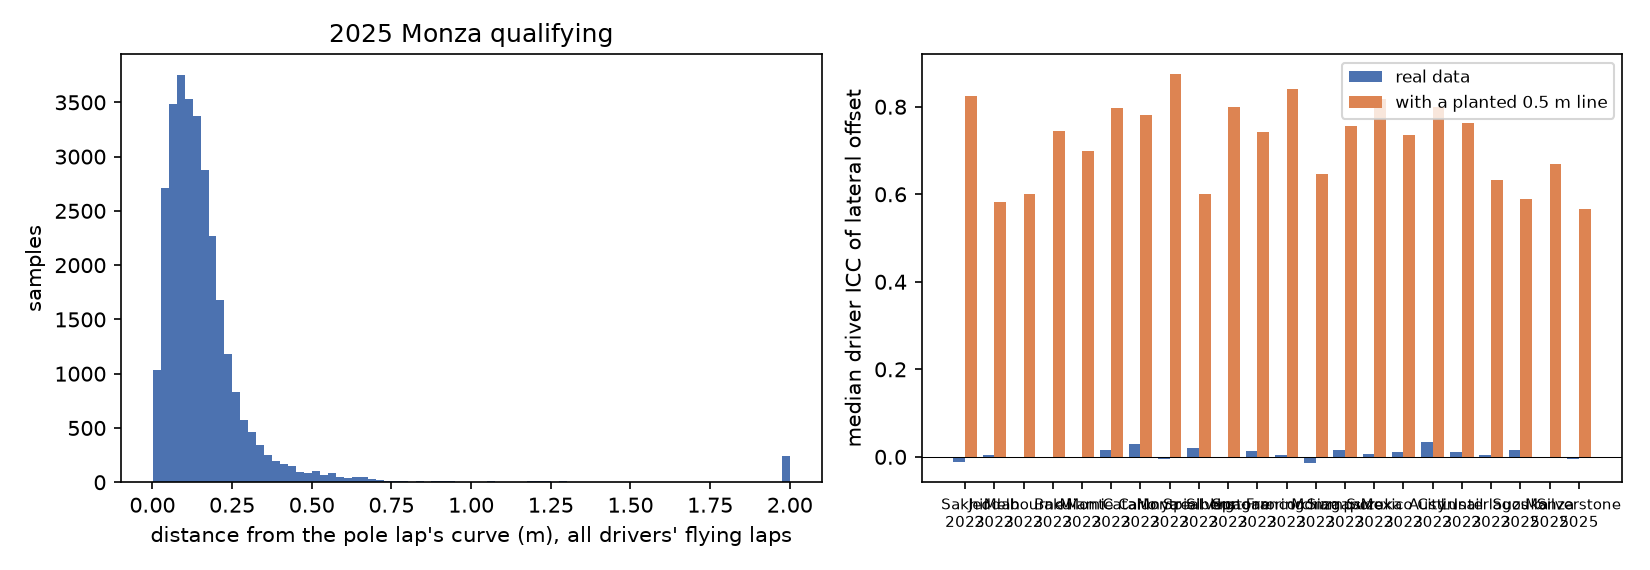
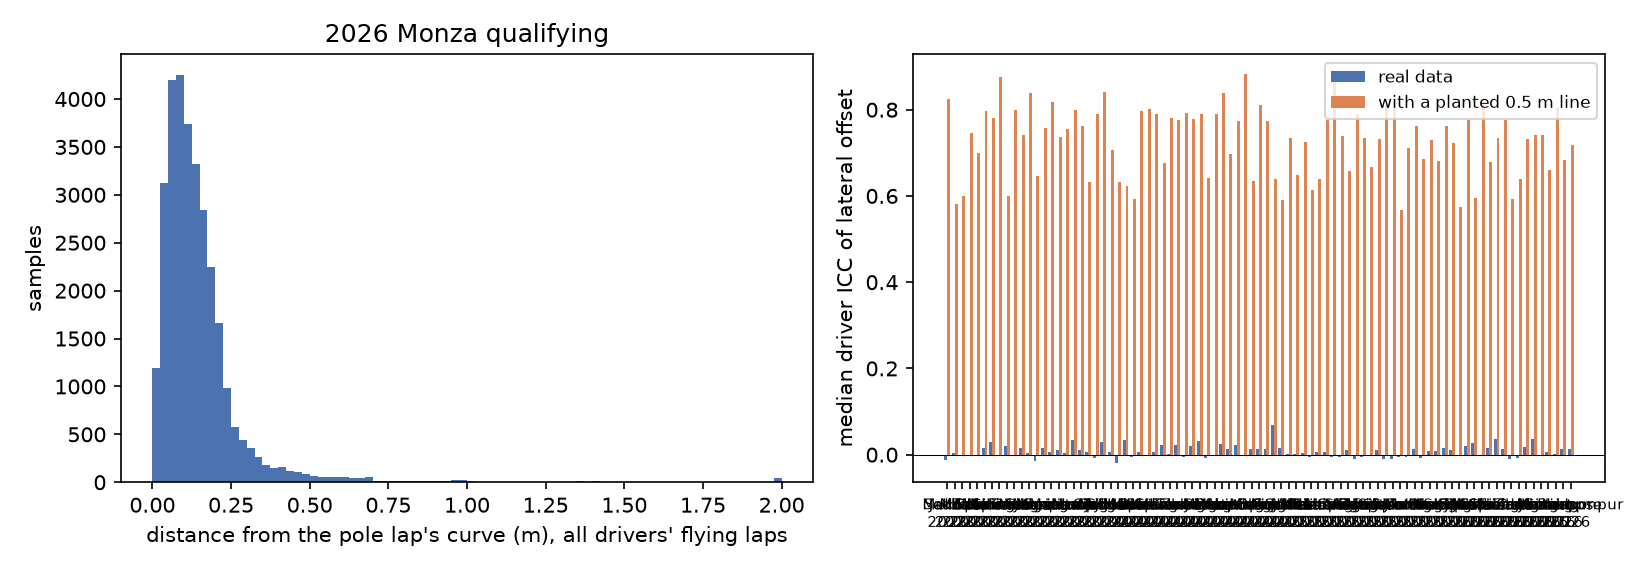
P0 complete; K4 specialist passes the revised gate on seed 1
- OpenF1: 111 qualifying-type sessions (2023: 28, 2024: 30, 2025: 30, 2026: 23 so
  far), 5,196 files, 0.54 GB, every SHA-256 verified, no incomplete sessions.
  jolpica: official qualifying results 2023-2026 (88 rounds).
- Snapping audit rerun on all 85 main qualifying sessions.
- Hockenheim specialist, 200M steps (MLP, Mac CPU): 100% completion over 20
  jittered starts, median lap 74.68 s vs the OCP's 71.28 s, a 4.8% gap (50M steps:
  12.9%). Passes the K4 paper gate (>= 95%, <= 8%) on this seed; two more seeds due.

diff --git a/scripts/fetch_jolpica.py b/scripts/fetch_jolpica.py
@@ -1,0 +1,55 @@
+"""Official qualifying results 2023-2026 from jolpica-f1 (the Ergast successor).
+
+    uv run python scripts/fetch_jolpica.py
+
+Writes data/raw/jolpica/qualifying_<year>.json (all pages merged) plus a SHA-256
+manifest. A handful of requests, spaced well under jolpica's limits.
+"""
+
+import hashlib
+import json
+import time
+from pathlib import Path
+
+import _bootstrap  # noqa: F401  (makes src/ importable)
+import httpx
+
+BASE = "https://api.jolpi.ca/ergast/f1"
+UA = "apexzero-research/0.1"
+
+
+def fetch_year(http: httpx.Client, year: int) -> list[dict]:
+    races, offset, limit = {}, 0, 100
+    while True:
+        resp = http.get(f"{BASE}/{year}/qualifying.json", params={"limit": limit, "offset": offset})
+        resp.raise_for_status()
+        data = resp.json()["MRData"]
+        for race in data["RaceTable"]["Races"]:
+            key = race["round"]
+            if key in races:
+                races[key]["QualifyingResults"].extend(race["QualifyingResults"])
+            else:
+                races[key] = race
+        offset += limit
+        time.sleep(1.0)
+        if offset >= int(data["total"]):
+            break
+    return [races[k] for k in sorted(races, key=int)]
+
+
+def main(out: Path = Path("data/raw/jolpica")) -> None:
+    out.mkdir(parents=True, exist_ok=True)
+    manifest = {}
+    with httpx.Client(headers={"User-Agent": UA}, timeout=60.0) as http:
+        for year in (2023, 2024, 2025, 2026):
+            races = fetch_year(http, year)
+            path = out / f"qualifying_{year}.json"
+            path.write_text(json.dumps(races, indent=1))
+            manifest[path.name] = hashlib.sha256(path.read_bytes()).hexdigest()
+            n = sum(len(r["QualifyingResults"]) for r in races)
+            print(f"{year}: {len(races)} rounds, {n} results", flush=True)
+    (out / "manifest.json").write_text(json.dumps(manifest, indent=1))
+
+
+if __name__ == "__main__":
+    main()

diff --git a/docs/findings/snapping-audit.md b/docs/findings/snapping-audit.md
@@ -24,12 +24,75 @@ shifted by known 1-3 m offsets, and a planted 0.5 m line for one driver.
 | 2023 Singapore | 88 | 9.8 cm | 29 cm | 17.2 m | 2.01 m | +0.017 | 4.2% | 7.0 cm | +0.76 | 99% | 47 cm | - |
 | 2023 Suzuka | 74 | 11.8 cm | 40 cm | 13.4 m | 2.00 m | +0.007 | 2.6% | 9.4 cm | +0.82 | 97% | 46 cm | - |
 | 2023 Mexico City | 81 | 10.3 cm | 29 cm | 16.4 m | 2.00 m | +0.012 | 3.5% | 7.1 cm | +0.74 | 100% | 45 cm | - |
+| 2023 Yas Marina Circuit | 84 | 11.3 cm | 36 cm | 18.8 m | 2.01 m | +0.004 | 3.8% | 7.3 cm | +0.76 | 98% | 46 cm | - |
 | 2023 Austin | 94 | 11.2 cm | 38 cm | 14.1 m | 2.01 m | +0.033 | 10.2% | 8.9 cm | +0.80 | 99% | 47 cm | - |
 | 2023 Lusail | 112 | 12.3 cm | 40 cm | 16.8 m | 1.99 m | +0.011 | 5.6% | 7.5 cm | +0.76 | 99% | 44 cm | - |
 | 2023 Interlagos | 92 | 11.2 cm | 35 cm | 27.1 m | 2.01 m | +0.005 | 3.6% | 7.8 cm | +0.63 | 96% | 45 cm | - |
+| 2023 Las Vegas | 104 | 11.0 cm | 32 cm | 14.3 m | 2.00 m | -0.008 | 5.7% | 8.7 cm | +0.79 | 100% | 45 cm | - |
+| 2024 Sakhir | 84 | 10.2 cm | 27 cm | 16.6 m | 2.01 m | +0.030 | 5.7% | 7.0 cm | +0.84 | 99% | 45 cm | - |
+| 2024 Jeddah | 94 | 11.8 cm | 30 cm | 16.1 m | 2.02 m | +0.005 | 4.1% | 7.5 cm | +0.71 | 99% | 46 cm | - |
+| 2024 Melbourne | 98 | 13.3 cm | 35 cm | 20.5 m | 2.01 m | -0.019 | 1.9% | 8.5 cm | +0.63 | 98% | 45 cm | - |
+| 2024 Suzuka | 73 | 13.3 cm | 36 cm | 13.4 m | 2.00 m | +0.035 | 1.7% | 10.2 cm | +0.62 | 98% | 45 cm | - |
+| 2024 Miami | 102 | 10.0 cm | 33 cm | 18.2 m | 2.00 m | -0.005 | 8.5% | 7.9 cm | +0.59 | 98% | 44 cm | - |
+| 2024 Imola | 86 | 11.0 cm | 27 cm | 8.4 m | 2.00 m | +0.006 | 3.1% | 7.3 cm | +0.80 | 97% | 46 cm | - |
+| 2024 Monte Carlo | 142 | 10.5 cm | 47 cm | 7.9 m | 2.01 m | -0.001 | 4.6% | 7.7 cm | +0.80 | 98% | 44 cm | - |
+| 2024 Montreal | 130 | 10.8 cm | 29 cm | 26.5 m | 2.01 m | +0.006 | 2.4% | 6.7 cm | +0.79 | 99% | 45 cm | - |
+| 2024 Catalunya | 83 | 12.3 cm | 34 cm | 17.2 m | 2.01 m | +0.021 | 1.1% | 7.9 cm | +0.68 | 99% | 46 cm | - |
+| 2024 Spielberg | 102 | 11.2 cm | 28 cm | 15.4 m | 2.01 m | +0.002 | 1.2% | 7.6 cm | +0.78 | 99% | 45 cm | - |
+| 2024 Silverstone | 79 | 13.3 cm | 45 cm | 30.7 m | 2.01 m | +0.022 | 1.7% | 9.1 cm | +0.78 | 97% | 47 cm | - |
+| 2024 Hungaroring | 100 | 11.2 cm | 37 cm | 15.1 m | 2.00 m | -0.005 | 1.2% | 6.5 cm | +0.79 | 100% | 46 cm | - |
+| 2024 Spa-Francorchamps | 127 | 10.9 cm | 34 cm | 30.4 m | 1.99 m | +0.020 | 6.5% | 7.8 cm | +0.78 | 99% | 45 cm | - |
+| 2024 Zandvoort | 92 | 11.9 cm | 44 cm | 14.8 m | 2.00 m | +0.033 | 7.2% | 9.2 cm | +0.79 | 98% | 46 cm | - |
+| 2024 Monza | 86 | 11.5 cm | 30 cm | 18.8 m | 2.00 m | -0.008 | 0.0% | 7.7 cm | +0.64 | 98% | 46 cm | - |
+| 2024 Baku | 99 | 9.6 cm | 29 cm | 14.0 m | 2.00 m | -0.001 | 3.4% | 7.2 cm | +0.79 | 99% | 47 cm | - |
+| 2024 Singapore | 85 | 10.1 cm | 30 cm | 16.3 m | 2.01 m | +0.025 | 4.2% | 6.9 cm | +0.84 | 99% | 46 cm | - |
+| 2024 Austin | 81 | 10.9 cm | 38 cm | 14.2 m | 2.00 m | +0.014 | 5.6% | 13.0 cm | +0.70 | 94% | 46 cm | - |
+| 2024 Mexico City | 88 | 9.4 cm | 29 cm | 16.5 m | 1.99 m | +0.022 | 6.0% | 8.3 cm | +0.77 | 99% | 46 cm | - |
+| 2024 Interlagos | 54 | 10.0 cm | 30 cm | 26.8 m | 1.99 m | -0.004 | 1.2% | 6.4 cm | +0.88 | 99% | 45 cm | - |
+| 2024 Las Vegas | 100 | 11.1 cm | 33 cm | 14.7 m | 2.01 m | +0.012 | 4.1% | 9.0 cm | +0.63 | 99% | 45 cm | - |
+| 2024 Lusail | 109 | 12.6 cm | 43 cm | 16.8 m | 2.01 m | +0.013 | 3.7% | 8.6 cm | +0.81 | 99% | 45 cm | - |
+| 2024 Yas Marina Circuit | 80 | 11.7 cm | 36 cm | 21.8 m | 2.00 m | +0.013 | 5.8% | 7.8 cm | +0.77 | 99% | 48 cm | - |
+| 2024 Shanghai | 87 | 12.0 cm | 36 cm | 17.6 m | 2.01 m | +0.068 | 12.1% | 9.2 cm | +0.64 | 97% | 46 cm | - |
 | 2025 Suzuka | 93 | 13.1 cm | 43 cm | 14.1 m | 1.99 m | +0.015 | 1.7% | 9.4 cm | +0.59 | 97% | 43 cm | - |
+| 2025 Sakhir | 81 | 10.5 cm | 30 cm | 13.7 m | 1.99 m | +0.003 | 4.7% | 7.6 cm | +0.73 | 97% | 46 cm | - |
+| 2025 Jeddah | 86 | 12.2 cm | 33 cm | 14.7 m | 1.99 m | +0.002 | 2.5% | 8.4 cm | +0.65 | 98% | 47 cm | - |
+| 2025 Miami | 92 | 11.9 cm | 46 cm | 16.8 m | 1.99 m | +0.004 | 0.9% | 8.8 cm | +0.72 | 98% | 46 cm | - |
+| 2025 Melbourne | 89 | 12.2 cm | 33 cm | 14.9 m | 2.01 m | -0.006 | 0.0% | 8.2 cm | +0.61 | 99% | 46 cm | - |
+| 2025 Yas Marina Circuit | 91 | 11.7 cm | 42 cm | 20.8 m | 2.00 m | +0.007 | 7.7% | 9.0 cm | +0.64 | 96% | 46 cm | - |
+| 2025 Lusail | 115 | 12.8 cm | 55 cm | 16.8 m | 2.00 m | +0.006 | 2.8% | 8.7 cm | +0.78 | 98% | 45 cm | - |
+| 2025 Las Vegas | 111 | 9.5 cm | 27 cm | 14.6 m | 2.00 m | -0.004 | 2.5% | 6.4 cm | +0.86 | 99% | 47 cm | - |
+| 2025 Interlagos | 95 | 11.1 cm | 31 cm | 26.9 m | 2.00 m | -0.004 | 1.2% | 8.3 cm | +0.74 | 99% | 46 cm | - |
+| 2025 Mexico City | 98 | 11.0 cm | 38 cm | 16.5 m | 2.00 m | +0.011 | 3.6% | 7.8 cm | +0.66 | 98% | 44 cm | - |
+| 2025 Austin | 77 | 10.6 cm | 37 cm | 14.2 m | 2.01 m | -0.011 | 1.9% | 8.0 cm | +0.79 | 97% | 46 cm | - |
+| 2025 Singapore | 88 | 10.3 cm | 31 cm | 16.2 m | 1.99 m | -0.006 | 2.1% | 6.3 cm | +0.73 | 99% | 47 cm | - |
 | 2025 Monza | 99 | 12.9 cm | 39 cm | 18.8 m | 2.00 m | -0.002 | 3.5% | 9.4 cm | +0.67 | 97% | 45 cm | - |
+| 2025 Zandvoort | 93 | 12.1 cm | 40 cm | 14.9 m | 2.01 m | +0.012 | 2.4% | 9.3 cm | +0.73 | 98% | 46 cm | - |
+| 2025 Hungaroring | 87 | 10.9 cm | 42 cm | 14.9 m | 2.00 m | -0.011 | 3.5% | 6.4 cm | +0.81 | 98% | 46 cm | - |
+| 2025 Spa-Francorchamps | 84 | 12.2 cm | 48 cm | 29.2 m | 2.00 m | -0.011 | 0.7% | 10.2 cm | +0.81 | 97% | 46 cm | - |
 | 2025 Silverstone | 90 | 13.0 cm | 42 cm | 31.2 m | 2.01 m | -0.005 | 1.7% | 8.9 cm | +0.57 | 97% | 45 cm | - |
+| 2025 Spielberg | 97 | 11.7 cm | 38 cm | 15.3 m | 2.01 m | -0.005 | 1.2% | 8.5 cm | +0.71 | 99% | 46 cm | - |
+| 2025 Montreal | 113 | 10.2 cm | 28 cm | 22.4 m | 2.00 m | +0.013 | 4.7% | 6.7 cm | +0.76 | 100% | 46 cm | - |
+| 2025 Catalunya | 77 | 12.7 cm | 45 cm | 17.2 m | 2.00 m | -0.007 | 3.3% | 8.9 cm | +0.69 | 96% | 46 cm | - |
+| 2025 Monte Carlo | 134 | 9.4 cm | 41 cm | 15.7 m | 2.01 m | +0.008 | 9.4% | 7.1 cm | +0.73 | 98% | 45 cm | - |
+| 2025 Imola | 83 | 11.4 cm | 61 cm | 8.7 m | 1.99 m | +0.008 | 4.2% | 10.3 cm | +0.68 | 94% | 47 cm | - |
+| 2025 Shanghai | 97 | 10.6 cm | 36 cm | 17.7 m | 2.00 m | +0.016 | 4.7% | 8.3 cm | +0.76 | 97% | 46 cm | - |
+| 2026 Melbourne | 102 | 12.2 cm | 41 cm | 14.9 m | 2.00 m | +0.011 | 5.8% | 8.2 cm | +0.72 | 98% | 45 cm | - |
+| 2026 Shanghai | 104 | 11.0 cm | 64 cm | 556.8 m | 2.00 m | -0.003 | 2.8% | 12.1 cm | +0.57 | 88% | 39 cm | - |
+| 2026 Suzuka | 108 | 12.2 cm | 47 cm | 14.0 m | 2.00 m | +0.020 | 7.0% | 9.2 cm | +0.77 | 98% | 40 cm | - |
+| 2026 Miami | 99 | 11.1 cm | 41 cm | 18.8 m | 2.01 m | +0.026 | 2.8% | 8.9 cm | +0.60 | 97% | 45 cm | - |
+| 2026 Montreal | 124 | 10.0 cm | 25 cm | 23.9 m | 2.00 m | -0.002 | 2.4% | 6.7 cm | +0.81 | 99% | 45 cm | - |
+| 2026 Monte Carlo | 131 | 10.2 cm | 40 cm | 12.3 m | 2.00 m | +0.017 | 4.6% | 6.7 cm | +0.68 | 98% | 44 cm | - |
+| 2026 Catalunya | 75 | 11.7 cm | 37 cm | 17.1 m | 2.01 m | +0.036 | 3.3% | 9.3 cm | +0.73 | 97% | 44 cm | - |
+| 2026 Spielberg | 90 | 10.7 cm | 29 cm | 15.7 m | 2.01 m | +0.013 | 4.7% | 7.9 cm | +0.78 | 98% | 44 cm | - |
+| 2026 Silverstone | 99 | 12.2 cm | 41 cm | 31.2 m | 2.00 m | -0.010 | 1.7% | 39.5 cm | +0.59 | 91% | 54 cm | - |
+| 2026 Spa-Francorchamps | 86 | 12.2 cm | 38 cm | 30.1 m | 2.00 m | -0.008 | 2.9% | 9.0 cm | +0.64 | 96% | 45 cm | - |
+| 2026 Hungaroring | 92 | 10.4 cm | 32 cm | 15.0 m | 2.01 m | +0.018 | 8.1% | 7.9 cm | +0.73 | 98% | 45 cm | - |
+| 2026 Zandvoort | 101 | 11.6 cm | 42 cm | 15.4 m | 2.00 m | +0.037 | 8.4% | 10.9 cm | +0.74 | 96% | 45 cm | - |
+| 2026 Monza | 96 | 11.7 cm | 35 cm | 18.6 m | 2.00 m | -0.001 | 1.8% | 8.9 cm | +0.74 | 99% | 44 cm | - |
+| 2026 Madring | 94 | 11.5 cm | 40 cm | 59.3 m | 2.00 m | +0.005 | 1.9% | 7.7 cm | +0.66 | 97% | 43 cm | - |
+| 2026 Baku | 111 | 9.5 cm | 24 cm | 13.9 m | 2.00 m | +0.002 | 1.7% | 6.4 cm | +0.81 | 99% | 47 cm | - |
+| 2026 Singapore | 113 | 9.8 cm | 29 cm | 16.1 m | 2.02 m | +0.014 | 4.2% | 6.2 cm | +0.68 | 99% | 45 cm | - |
+| 2026 Kuala Lumpur | 76 | 10.3 cm | 45 cm | 15.9 m | 1.99 m | +0.012 | 1.9% | 8.8 cm | +0.72 | 96% | 46 cm | - |
 
 ![audit](snapping-audit.png)
 
@@ -56,6 +119,23 @@ artefacts such as antenna position or latency, far below racing-line scale
 - 2023 Silverstone: 2.6% of stations significant, driver offset p95 40.9 cm, ICC -0.002
 - 2023 Austin: 10.2% of stations significant, driver offset p95 8.9 cm, ICC +0.033
 - 2023 Lusail: 5.6% of stations significant, driver offset p95 7.5 cm, ICC +0.011
+- 2023 Las Vegas: 5.7% of stations significant, driver offset p95 8.7 cm, ICC -0.008
+- 2024 Sakhir: 5.7% of stations significant, driver offset p95 7.0 cm, ICC +0.030
+- 2024 Miami: 8.5% of stations significant, driver offset p95 7.9 cm, ICC -0.005
+- 2024 Spa-Francorchamps: 6.5% of stations significant, driver offset p95 7.8 cm, ICC +0.020
+- 2024 Zandvoort: 7.2% of stations significant, driver offset p95 9.2 cm, ICC +0.033
+- 2024 Austin: 5.6% of stations significant, driver offset p95 13.0 cm, ICC +0.014
+- 2024 Mexico City: 6.0% of stations significant, driver offset p95 8.3 cm, ICC +0.022
+- 2024 Yas Marina Circuit: 5.8% of stations significant, driver offset p95 7.8 cm, ICC +0.013
+- 2024 Shanghai: 12.1% of stations significant, driver offset p95 9.2 cm, ICC +0.068
+- 2025 Yas Marina Circuit: 7.7% of stations significant, driver offset p95 9.0 cm, ICC +0.007
+- 2025 Monte Carlo: 9.4% of stations significant, driver offset p95 7.1 cm, ICC +0.008
+- 2026 Melbourne: 5.8% of stations significant, driver offset p95 8.2 cm, ICC +0.011
+- 2026 Suzuka: 7.0% of stations significant, driver offset p95 9.2 cm, ICC +0.020
+- 2026 Silverstone: 1.7% of stations significant, driver offset p95 39.5 cm, ICC -0.010
+- 2026 Hungaroring: 8.1% of stations significant, driver offset p95 7.9 cm, ICC +0.018
+- 2026 Zandvoort: 8.4% of stations significant, driver offset p95 10.9 cm, ICC +0.037
 
 Skipped sessions:
 - 2023 Zandvoort: only 0 drivers with >= 3 flying laps
+- 2025 Baku: min() iterable argument is empty

diff --git a/docs/findings/braking-gamma.md b/docs/findings/braking-gamma.md
@@ -20,6 +20,9 @@ Value iteration solves the discounted RL objective the agent uses (progress / 10
 
 ![braking](braking-gamma.png)
 
+Corner speeds within about 1 km/h of the limit are at the grid's resolution (0.25 m/s),
+so a crash flagged at ~91 km/h is a resolution effect, not a horizon effect.
+
 Reading: a crash forfeits all future progress, so its true cost is the discounted
 value of everything after the corner. With a short horizon that value is small, the
 progress gained by braking later wins, and the agent arrives too fast. The RL
